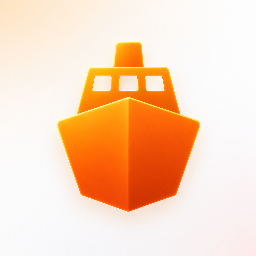
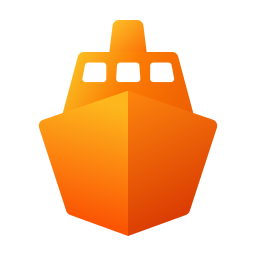
feat: Add experimental settings and sign Safari extension

diff --git a/Harbor/Views/ExperimentalSettingsTab.swift b/Harbor/Views/ExperimentalSettingsTab.swift
@@ -1,0 +1,78 @@
+import SafariServices
+import SwiftUI
+
+struct ExperimentalSettingsTab: View {
+    // TODO: Move Safari setup out of Experimental when the extension is stable.
+    @Environment(\.scenePhase) private var scenePhase
+    @State private var extensionEnabled: Bool?
+    @State private var errorMessage: String?
+
+    private let extensionIdentifier = "co.hapy.harbor.SafariExtension"
+
+    var body: some View {
+        Form {
+            Section {
+                Text("Try features that are still in development.")
+                    .foregroundStyle(.secondary)
+            }
+
+            Section("Safari Extension") {
+                Text("Send download links from Safari to Harbor.")
+
+                LabeledContent("Status") {
+                    Text(extensionStatus)
+                        .foregroundStyle(.secondary)
+                        .accessibilityIdentifier("settings.experimental.safari.status")
+                }
+
+                Button(extensionEnabled == true
+                       ? String(localized: "Manage in Safari…")
+                       : String(localized: "Enable in Safari…")) {
+                    SFSafariApplication.showPreferencesForExtension(withIdentifier: extensionIdentifier) { error in
+                        Task { @MainActor in
+                            errorMessage = error.map(extensionErrorMessage)
+                        }
+                    }
+                }
+                .accessibilityIdentifier("settings.experimental.safari.manage")
+
+                Text("Turn on Harbor in Safari Settings → Extensions, then allow access to the websites you want to use.")
+                    .font(.callout)
+                    .foregroundStyle(.secondary)
+
+                if let errorMessage {
+                    Text(errorMessage)
+                        .font(.callout)
+                        .foregroundStyle(.red)
+                }
+            }
+        }
+        .formStyle(.grouped)
+        .onAppear(perform: refreshExtensionState)
+        .onChange(of: scenePhase) { _, phase in
+            if phase == .active { refreshExtensionState() }
+        }
+    }
+
+    private var extensionStatus: LocalizedStringResource {
+        if let extensionEnabled {
+            return extensionEnabled ? "Enabled" : "Disabled"
+        }
+        return errorMessage == nil ? "Checking…" : "Unavailable"
+    }
+
+    private func refreshExtensionState() {
+        SFSafariExtensionManager.getStateOfSafariExtension(withIdentifier: extensionIdentifier) { state, error in
+            extensionEnabled = state?.isEnabled
+            errorMessage = error.map(extensionErrorMessage)
+        }
+    }
+
+    private func extensionErrorMessage(_ error: Error) -> String {
+        let error = error as NSError
+        if error.domain == SFErrorDomain, error.code == SFErrorCode.noExtensionFound.rawValue {
+            return String(localized: "Safari cannot detect the Harbor extension. Reopen Harbor and try again.")
+        }
+        return String(localized: "Safari could not access the Harbor extension. Try again.")
+    }
+}

diff --git a/Harbor/Views/SettingsView.swift b/Harbor/Views/SettingsView.swift
@@ -42,6 +42,12 @@ struct SettingsView: View {
                     Label("Updates", systemImage: "arrow.triangle.2.circlepath")
                 }
 
+            ExperimentalSettingsTab()
+                .accessibilityIdentifier(HarborAccessibility.settingsExperimental)
+                .tabItem {
+                    Label("Experimental", systemImage: "flask")
+                }
+
             AcknowledgmentsSettingsTab()
                 .accessibilityIdentifier(HarborAccessibility.settingsAcknowledgments)
                 .tabItem {

diff --git a/Harbor/Views/HarborAccessibility.swift b/Harbor/Views/HarborAccessibility.swift
@@ -51,6 +51,7 @@ enum HarborAccessibility {
     static let settingsNetworkInterfacePicker = "settings.torrents.networkInterface"
     static let settingsBandwidth = "settings.bandwidth"
     static let settingsUpdates = "settings.updates"
+    static let settingsExperimental = "settings.experimental"
     static let settingsAcknowledgments = "settings.acknowledgments"
 
     static let browserSheet = "browser-download.sheet"

diff --git a/script/generate_safari_icons.py b/script/generate_safari_icons.py
@@ -1,0 +1,34 @@
+#!/usr/bin/env python3
+"""Export the Safari icons from the app's ship layers. Requires rsvg-convert."""
+
+from pathlib import Path
+import subprocess
+import tempfile
+import xml.etree.ElementTree as ET
+
+
+ROOT = Path(__file__).resolve().parent.parent
+SVG = "http://www.w3.org/2000/svg"
+ET.register_namespace("", SVG)
+icon = ET.Element(f"{{{SVG}}}svg", {
+    "viewBox": "112 108.5 800 800",
+    "style": "fill-rule:evenodd;clip-rule:evenodd;stroke-linejoin:round;stroke-miterlimit:2",
+})
+
+for layer in ("BT1", "BT2b", "BT31", "BT32"):
+    source = (ROOT / "Harbor/Harbor.icon/Assets" / f"{layer}.svg").read_text()
+    # Each exported layer uses the same gradient ID. Keep references distinct.
+    source = source.replace('id="_Linear1"', f'id="{layer}-gradient"')
+    source = source.replace("url(#_Linear1)", f"url(#{layer}-gradient)")
+    for child in ET.fromstring(source):
+        icon.append(child)
+
+with tempfile.TemporaryDirectory() as directory:
+    source = Path(directory) / "ship.svg"
+    ET.ElementTree(icon).write(source, encoding="utf-8", xml_declaration=True)
+    for size in (16, 32, 64, 128, 256, 512):
+        subprocess.run([
+            "rsvg-convert", "--width", str(size), "--height", str(size),
+            "--output", str(ROOT / "HarborSafariExtension" / f"icon-{size}.png"),
+            str(source),
+        ], check=True)

diff --git a/README.md b/README.md
@@ -109,20 +109,24 @@ Safari has no downloads API for extensions, so this is an approximation. The ext
 
 ### Enable the extension
 
-1. Open Harbor once after installing it.
-2. In Safari, open **Settings → Extensions** and turn on **Harbor**.
+1. In Harbor, open **Settings → Experimental**.
+2. Click **Enable in Safari…**, then turn on **Harbor** in Safari's Extensions settings.
 3. Select Harbor, and set **Other websites** to **Allow**. Without this, Safari doesn't run click interception.
 
 The first time a site hands a link to Harbor, Safari asks: "Do you want to allow this website to open Harbor.app?" Choose **Always Allow** to stop the prompt for that site. Safari asks again for each new site. On bare IP addresses such as `127.0.0.1`, Safari asks every time.
 
 ### Local builds
 
+`script/build_and_run.sh` signs Harbor and its extension with the project's Developer ID identity by default. Set `CODE_SIGN_IDENTITY` to use another identity. Set `CODE_SIGNING_ALLOWED=NO` to build without signing.
+
+Use a notarized Developer ID build to test without Safari's unsigned-extension setting. Set `CODE_SIGN_INJECT_BASE_ENTITLEMENTS=NO` when preparing a local build for notarization to omit debugger-only entitlements.
+
 Safari loads unsigned extensions only when you allow them:
 
 1. In Safari, turn on **Settings → Advanced → Show features for web developers**.
 2. In **Settings → Developer**, turn on **Allow unsigned extensions**. Safari turns this off each time it quits.
 
-The extension must be signed and sandboxed, or macOS ignores it. `script/build_and_run.sh` builds with `CODE_SIGNING_ALLOWED=NO`, which leaves it unsigned. If you have no signing identity, sign the build ad hoc and register it:
+The extension must be signed and sandboxed, or macOS ignores it. If you built with `CODE_SIGNING_ALLOWED=NO` and have no signing identity, sign the build ad hoc and register it:
 
 ```sh
 APP=build/HarborDerivedData/Build/Products/Debug/Harbor.app
